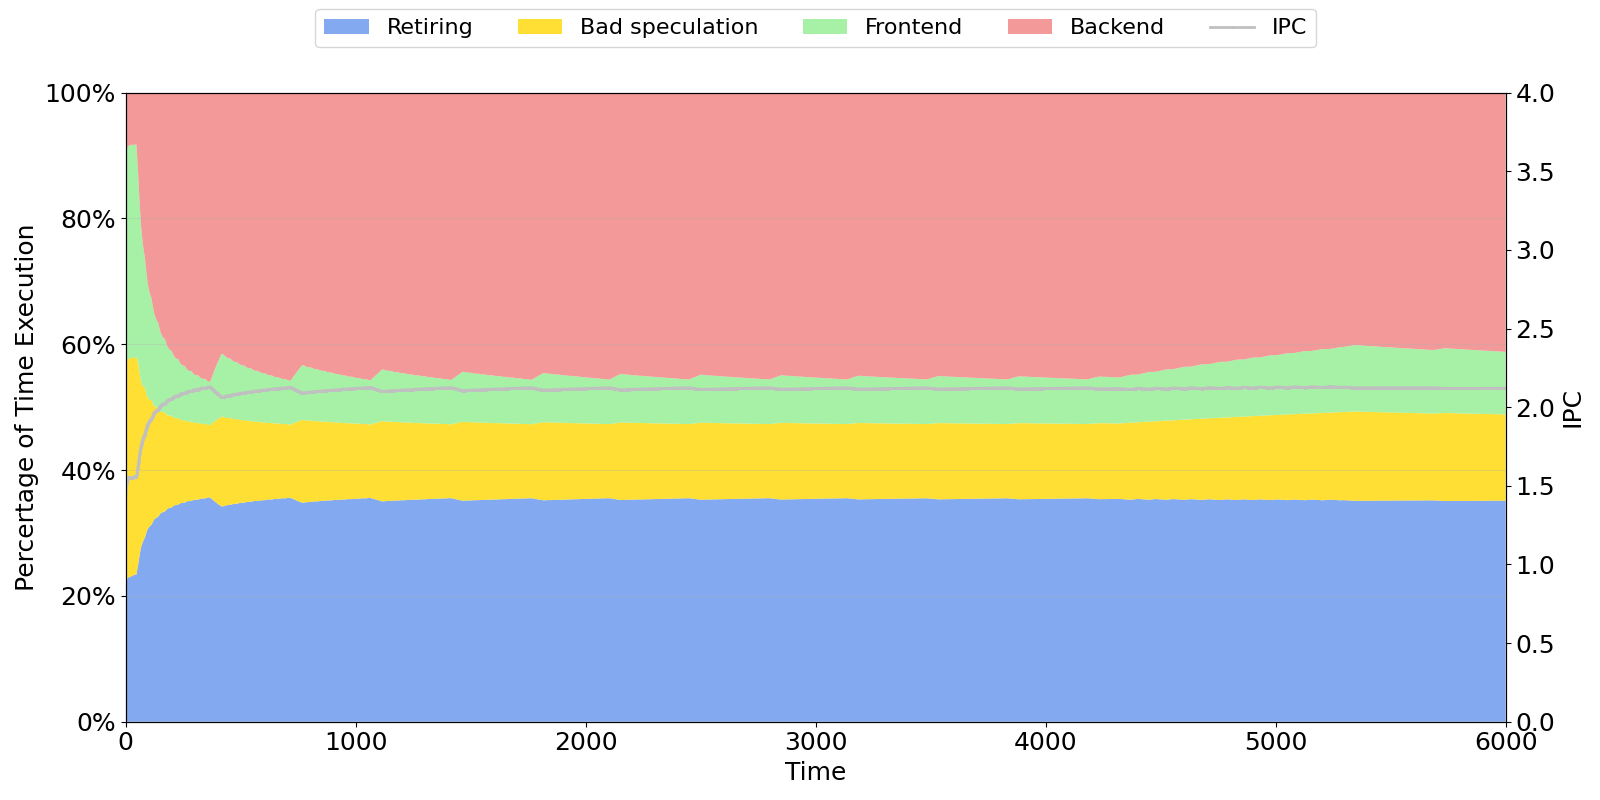
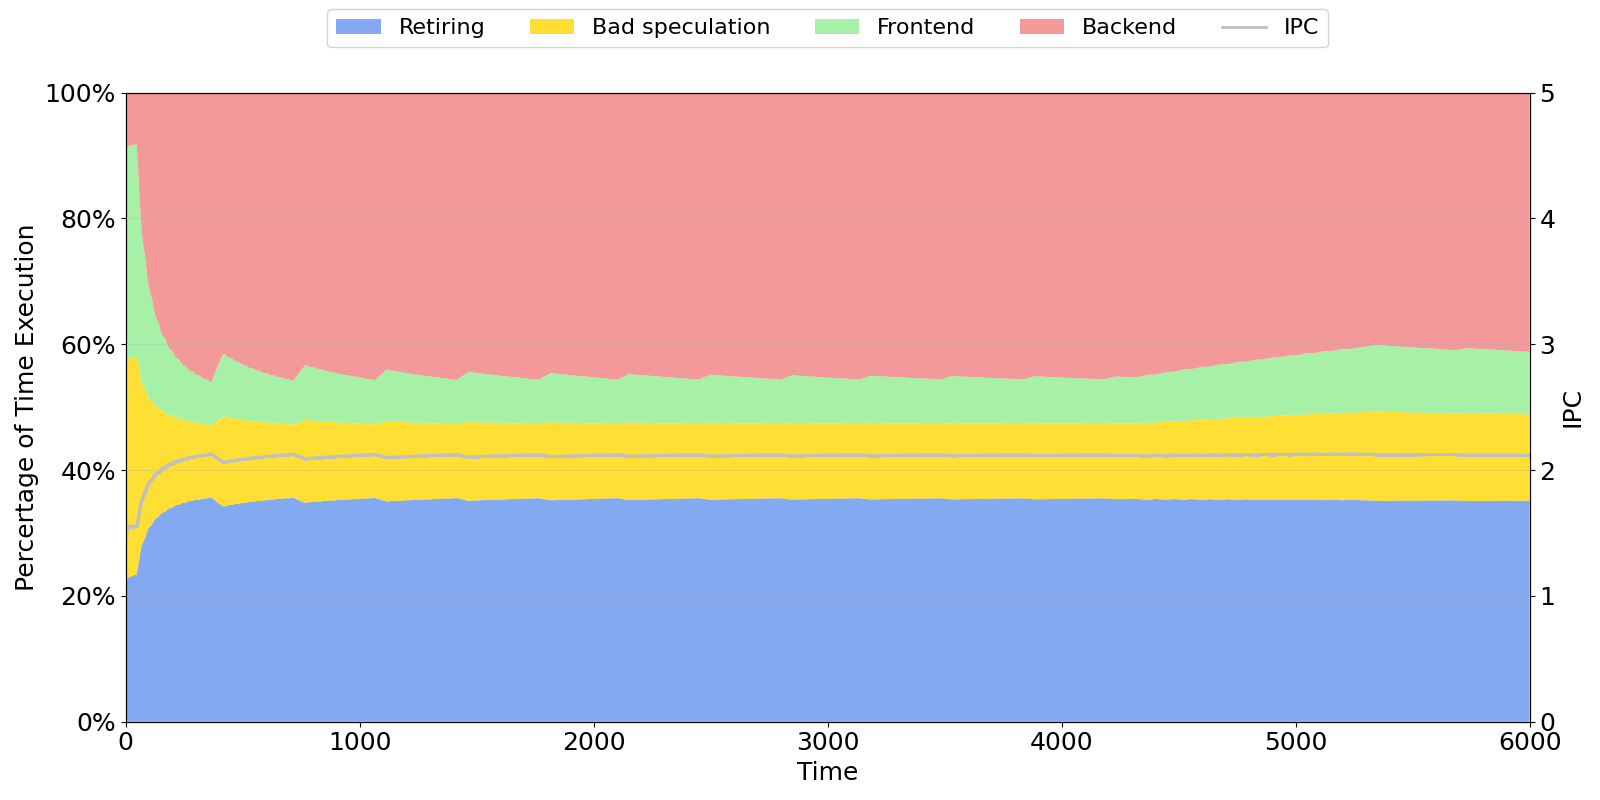
mas rango

diff --git a/graficar_topdown.py b/graficar_topdown.py
@@ -91,7 +91,7 @@ def main():
                 ax2.plot(tiempo, ipc_list, 'o-', color='silver', linewidth=2, markersize=1, label='IPC')
                 ax2.set_ylabel('IPC', fontsize=18)
                 ax2.tick_params(axis='y', labelsize=18)
-                ax2.set_ylim(0, 4)
+                ax2.set_ylim(0, 5)
 
                 # Crear espacio en la parte superior para la leyenda
                 lines, labels = ax1.get_legend_handles_labels()
